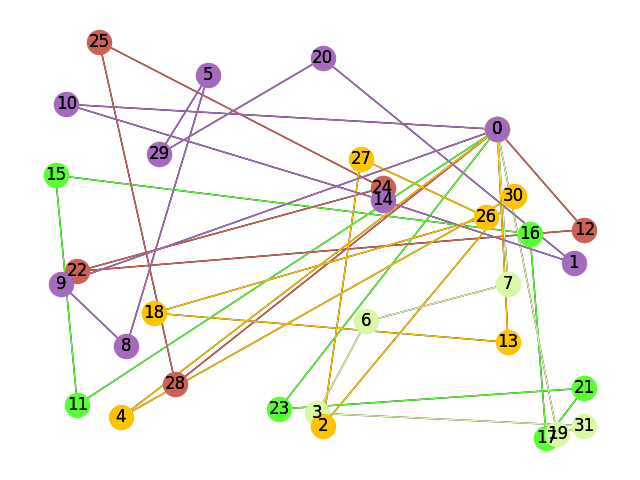
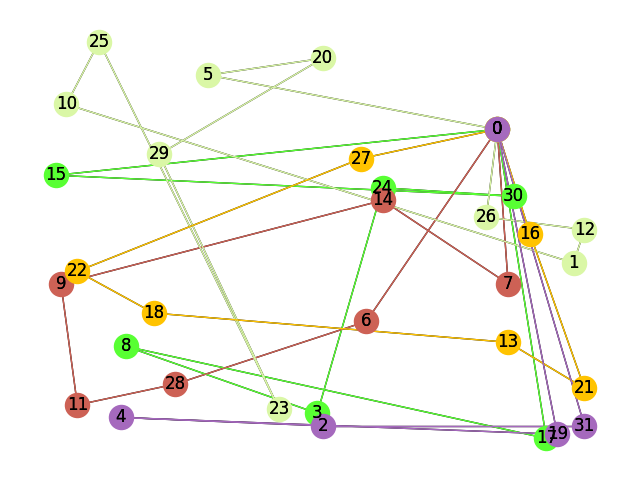
modified graph

diff --git a/CVRP.py b/CVRP.py
@@ -13,12 +13,11 @@ import networkx as nx
 import matplotlib.pyplot as plt
 
 
-def edge_gen(list):
-    edge_list = []
-    for i in range(len(list)-1):
-        edge_list.append((list[i],list[i+1]))
-    edge_list.append((list[-1],'0'))
-    return edge_list
+def get_sub_nodes(lis):
+    i = lis[0]
+    for t in lis[1:]:
+        i+=t
+    return list(i)
 
 colors = [ "#58FF33", "#CD6155", "#DAF7A6", "#FFC300", "#A569BD", "#5499C7", "#45B39D", "#6E2C00", "#FF33D1", "#FFFFFF", "#000000", "#33FFAF", "#33FFE0", "#FF3333"]
 
@@ -74,8 +73,10 @@ for i in range(1,n):
             for k in range(p):
                 cqm.add_constraint((t[j][k]-(t[i][k]+1)+B*(1-x[k][i][j]))>=0)
 
+# print(t)
+
 def get_token():
-    return 'DEV-84bd4a159c19999c61d45bf77755d8a37754ba12'
+    return 'DEV-c413dd10019812eba489844722103c0f09271133'
 
 
 print("Starting D wave")
@@ -112,7 +113,7 @@ for i in range(p):
     print("\nTruck",i,"route:")
     for r in current_route:
         print(r)
-        temp.append(r[0])
+        temp.append(tuple(r))
     print("\nTruck",i,"cost:",current_cost)
     total_cost+=current_cost
     paths.append(temp)
@@ -121,12 +122,12 @@ G = nx.Graph()
 for i in range(len(instance.coordinates)):
     G.add_node(str(i),pos=tuple(instance.coordinates[i]))
 for l in paths:
-    G.add_edges_from(edge_gen(l))
+    G.add_edges_from(l)
 
 nx.draw(G, nx.get_node_attributes(G, 'pos'), with_labels=True, node_size=10)
 
 for l in range(len(paths)):
-    k = G.subgraph(paths[l])
+    k = G.subgraph(get_sub_nodes(paths[l]))
     nx.draw_networkx(k, nx.get_node_attributes(G, 'pos'), with_labels=True, edge_color=colors[l], node_color=colors[l])
 plt.savefig("solution", bbox_inches=None)
 
@@ -135,7 +136,7 @@ print("\nTotal cost:\t",total_cost)
 print("\nClassical Solution Route\t",solution.routes)
 print("\nClassical Solution Total cost:\t",solution.cost)
 
-
+print(t)
 #print("\n ",instance.name,"\n ")
 #print("\n ",strp,"\n ")
 #print(solution)
